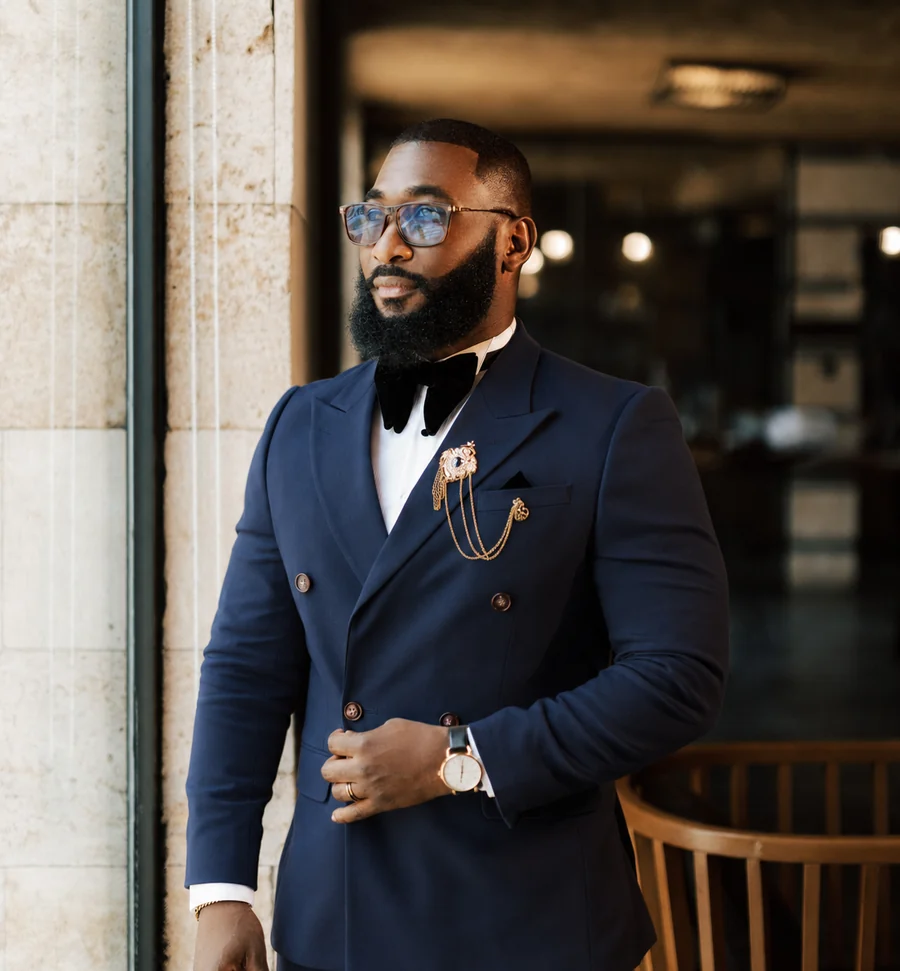
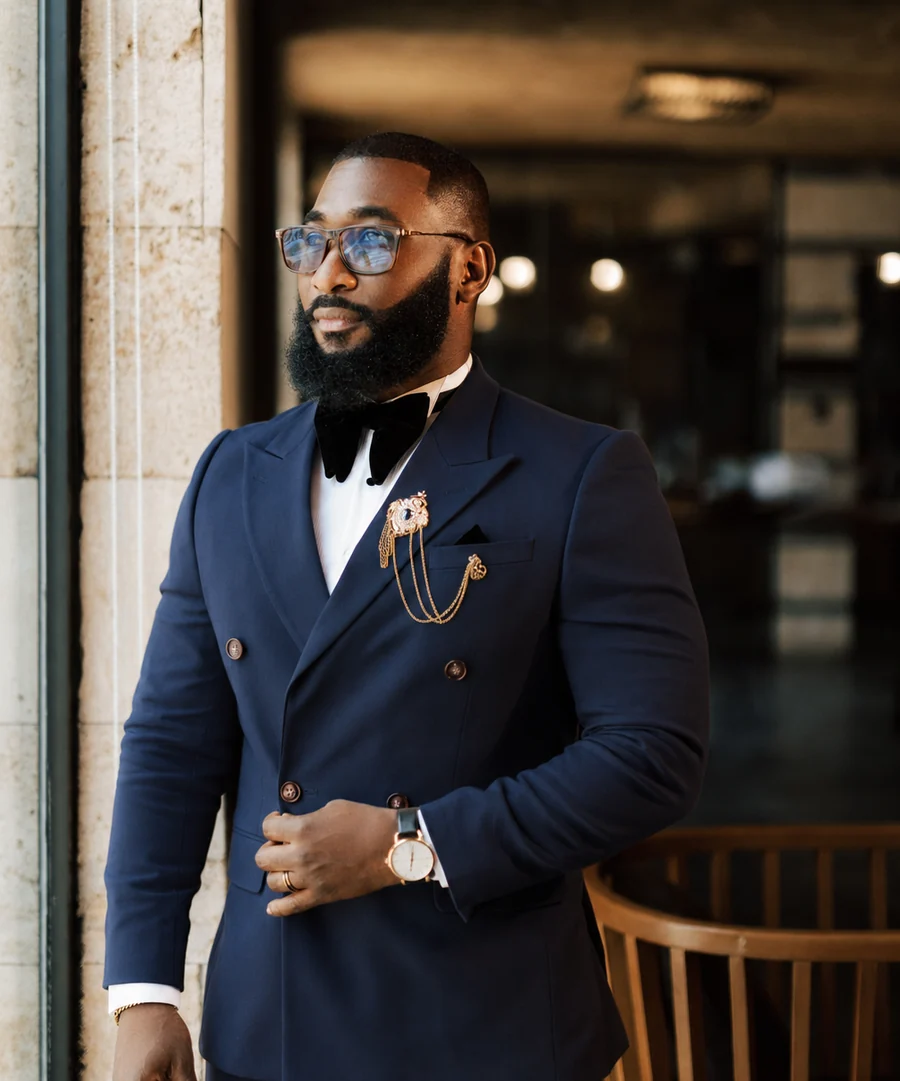
Refine academic lead section layout

diff --git a/client/src/pages/Home.tsx b/client/src/pages/Home.tsx
@@ -195,14 +195,29 @@ export default function Home() {
 
       {/* Programme Lead */}
       <section className="glass-panel">
-        <div className="grid lg:grid-cols-[0.9fr_1.1fr] gap-8 lg:gap-10 items-center">
-          <div className="relative overflow-hidden rounded-2xl border border-white/10 shadow-2xl bg-white/5">
-            <img
-              src="/dr-frank-donkor-academic-lead.webp"
-              alt="Dr Frank Donkor, Academic Lead at GICS"
-              className="w-full h-full max-h-[620px] object-cover object-[center_top]"
-              loading="lazy"
-            />
+        <div className="grid lg:grid-cols-[0.85fr_1.15fr] gap-8 lg:gap-10 items-start">
+          <div className="space-y-5">
+            <div className="relative overflow-hidden rounded-2xl border border-white/10 shadow-2xl bg-white/5">
+              <img
+                src="/dr-frank-donkor-academic-lead.webp"
+                alt="Dr Frank Donkor, Academic Lead at GICS"
+                className="w-full aspect-[5/6] object-cover object-[center_top]"
+                loading="lazy"
+              />
+            </div>
+
+            <div className="grid sm:grid-cols-3 lg:grid-cols-1 gap-3">
+              {[
+                { label: "UK higher education", value: "Programme Director" },
+                { label: "Academic discipline", value: "Operations & Supply Chain Management" },
+                { label: "Recognition", value: "FHEA | PhD Management Science" }
+              ].map((item) => (
+                <div key={item.label} className="p-4 bg-white/5 border border-white/10 rounded-xl">
+                  <span className="block text-[10px] font-black uppercase tracking-widest text-[hsl(var(--accent))]">{item.label}</span>
+                  <span className="block text-sm font-bold text-foreground leading-snug mt-1">{item.value}</span>
+                </div>
+              ))}
+            </div>
           </div>
 
           <div className="space-y-6">
@@ -221,19 +236,6 @@ export default function Home() {
               <p className="text-sm text-muted-foreground leading-relaxed font-medium">
                 At GICS, Frank leads the academic vision for GC-PSSO and ensures the learning experience remains practical, globally relevant and grounded in credible operations and supply chain thinking.
               </p>
-            </div>
-
-            <div className="grid sm:grid-cols-3 gap-3">
-              {[
-                { label: "PhD", value: "Management Science" },
-                { label: "FHEA", value: "Fellow of the Higher Education Academy" },
-                { label: "Programme Director", value: "UK higher education" }
-              ].map((item) => (
-                <div key={item.label} className="p-4 bg-white/5 border border-white/10 rounded-xl">
-                  <span className="block text-xs font-black text-foreground">{item.label}</span>
-                  <span className="block text-[11px] text-muted-foreground leading-snug mt-1">{item.value}</span>
-                </div>
-              ))}
             </div>
 
             <div>